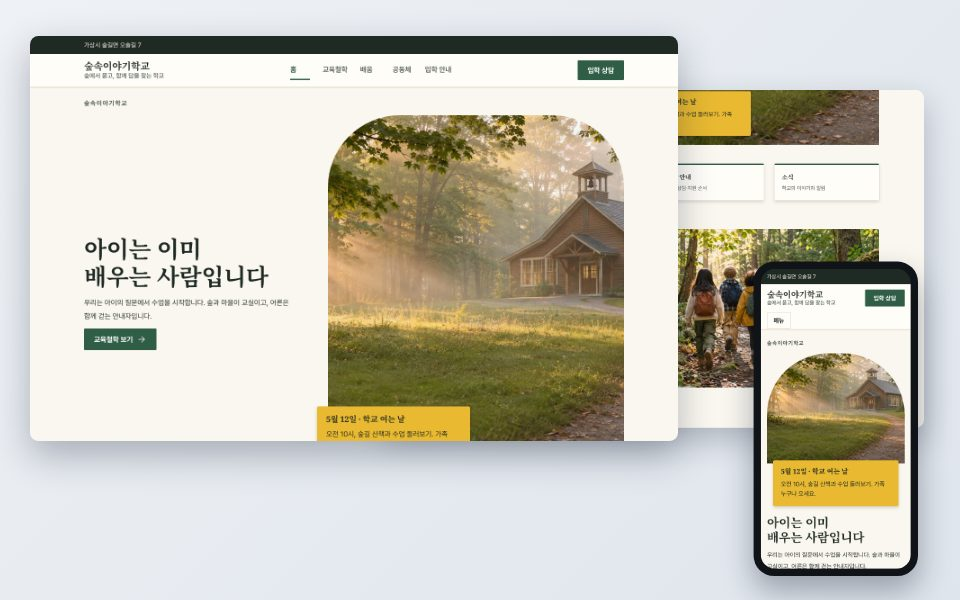
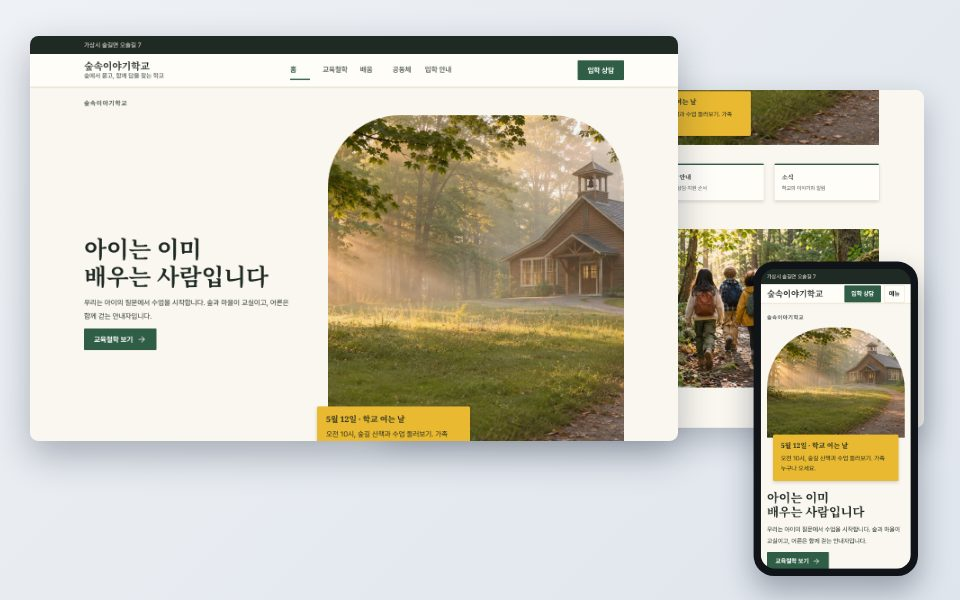
이야기형 템플릿: 풍성한 밥상 사진 교체 — 공동체 쪽은 여름 텃밭, 사계절 모음 다섯째 칸은 숲 관찰
Claude-Session: https://claude.ai/code/session_013RZyUom6xS67hpTPYHpecQ

Changed region(s): [[0.7812, 0.45, 0.9688, 0.96]]

diff --git a/src/lib/site-template-samples.ts b/src/lib/site-template-samples.ts
@@ -55,8 +55,10 @@ export const TEMPLATE_SAMPLES: Record<string, TemplateSample> = {
   story: {
     school: '숲속이야기학교',
     images: [{ at: ['home', 'blocks', 0, 'asset'], name: 'story-hero' }, { at: ['home', 'blocks', 2, 'asset'], name: 'story-day' }, { at: ['admission', 'blocks', 4, 'asset'], name: 'story-learning' }, { at: ['learning', 'blocks', 0, 'asset'], name: 'story-learning' },
-      { at: ['learning', 'blocks', 1, 'asset'], name: 'story-season-3' }, { at: ['philosophy', 'blocks', 2, 'asset'], name: 'story-hero' }, { at: ['community', 'blocks', 0, 'asset'], name: 'story-season-5' },
-      ...[1, 2, 3, 4, 5].map((n) => ({ at: ['home', 'blocks', 3, 'items', n - 1, 'asset'], name: `story-season-${n}` }))],
+      { at: ['learning', 'blocks', 1, 'asset'], name: 'story-season-3' }, { at: ['philosophy', 'blocks', 2, 'asset'], name: 'story-hero' }, { at: ['community', 'blocks', 0, 'asset'], name: 'story-season-2' },
+      ...[1, 2, 3, 4].map((n) => ({ at: ['home', 'blocks', 3, 'items', n - 1, 'asset'], name: `story-season-${n}` })),
+      // 124차 뒤(선생님): 풍성한 밥상 사진은 학교 모습과 어긋나 사계절 다섯째 칸·공동체 쪽에서 뺐다
+      { at: ['home', 'blocks', 3, 'items', 4, 'asset'], name: 'story-learning' }],
     text: {
       ...contact('숲속이야기학교', '000-000-0000', 'hello@example.org', '가상시 숲길면 오솔길 7', '숲에서 묻고, 함께 답을 찾는 학교'),
       // 107차: 바로가기·숫자 띠·일정·목소리·입학 안내(가상 예시)
@@ -82,7 +84,7 @@ export const TEMPLATE_SAMPLES: Record<string, TemplateSample> = {
       '[다가오는 행사 — 예: 5월 12일 학교 여는 날]': '5월 12일 · 학교 여는 날',
       '[행사 한 줄 안내]': '오전 10시, 숲길 산책과 수업 둘러보기. 가족 누구나 오세요.',
       '[사진으로 보는 우리 학교]': '사진으로 보는 숲속의 한 해',
-      '[사진 이름 1]': '봄 숲길', '[사진 이름 2]': '여름 텃밭', '[사진 이름 3]': '가을 공방', '[사진 이름 4]': '겨울 도서실', '[사진 이름 5]': '함께 짓는 밥',
+      '[사진 이름 1]': '봄 숲길', '[사진 이름 2]': '여름 텃밭', '[사진 이름 3]': '가을 공방', '[사진 이름 4]': '겨울 도서실', '[사진 이름 5]': '숲 관찰 시간',
       '[학교를 처음 만나는 분께 드리는 두 문장]': '우리는 아이의 질문에서 수업을 시작합니다. 숲과 마을이 교실이고, 어른은 함께 걷는 안내자입니다.',
       '[아침부터 저녁까지, 우리 학교의 하루]': '아침 숲길에서 저녁 나눔까지',
       '[하루 흐름을 이야기처럼]': '아침에는 숲길을 걸으며 하루를 엽니다. 오전에는 학년이 섞인 모둠으로 프로젝트를 하고, 점심은 함께 지은 밥을 나눕니다. 오후에는 악기·목공·텃밭 가운데 하나를 고르고, 하루 끝에는 둥글게 앉아 배운 것을 이야기합니다.',
